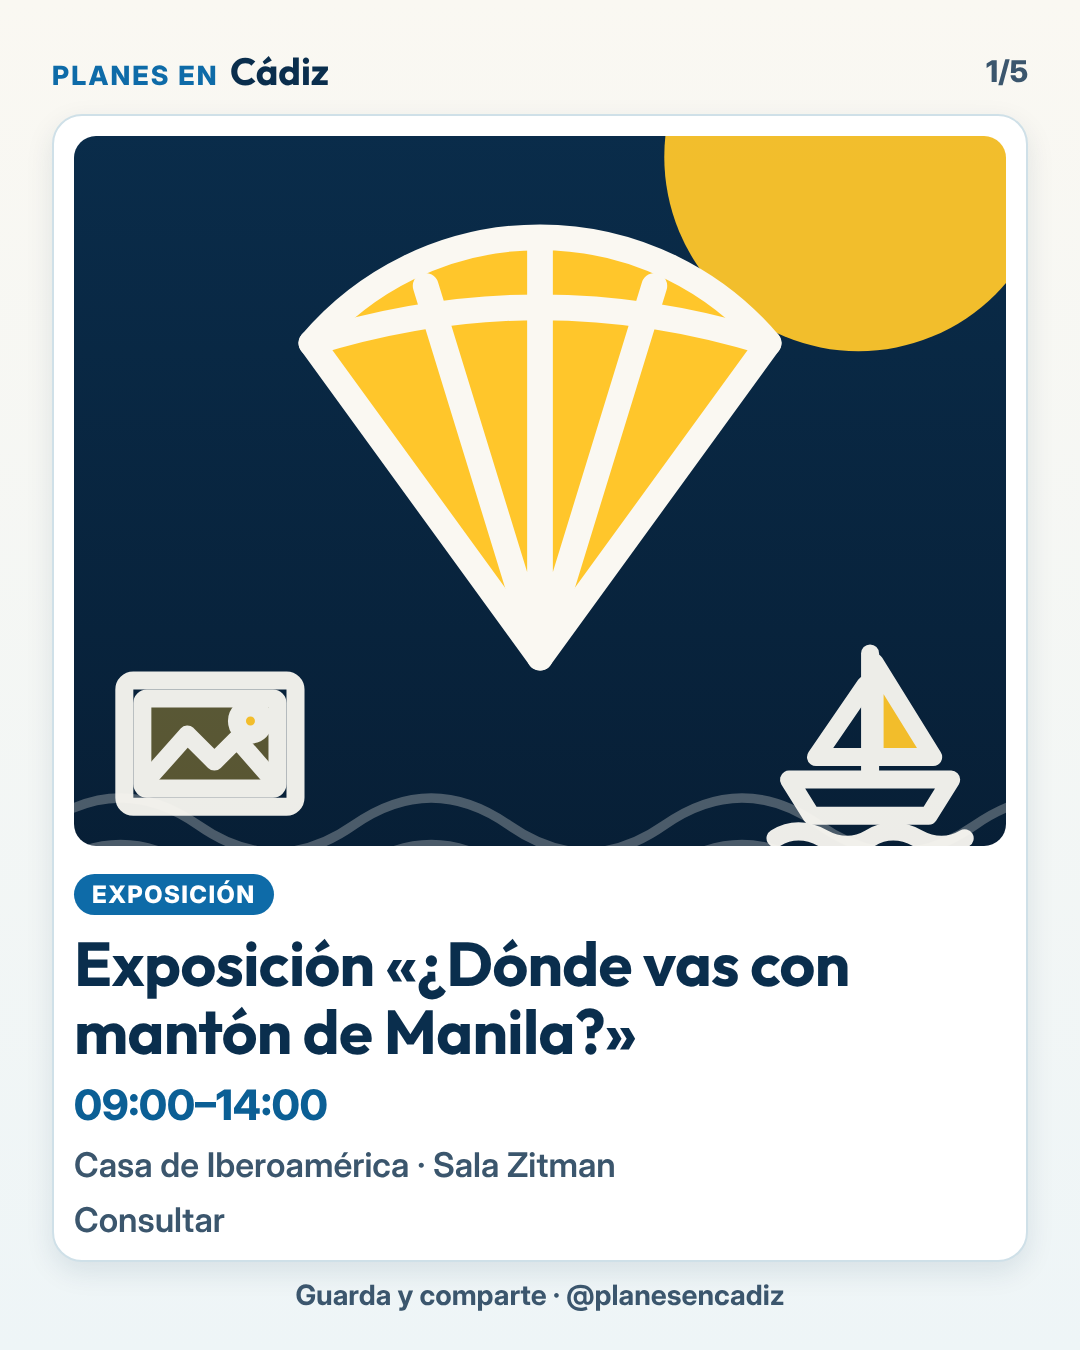
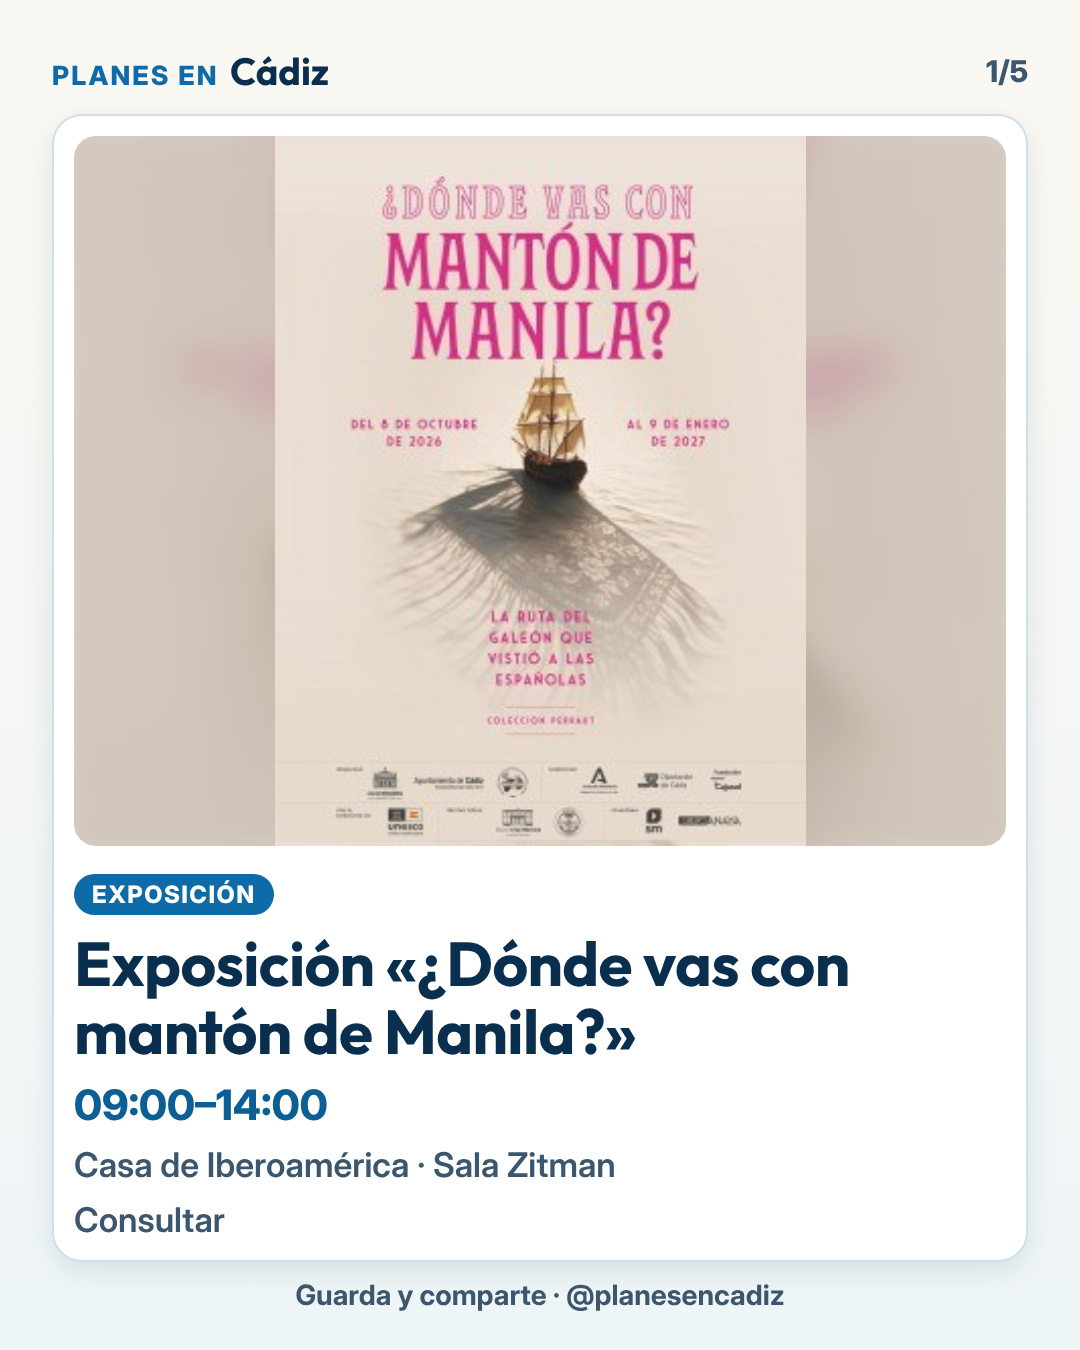
Imágenes oficiales: no descartar carteles con «instagram» en el nombre, admitir CDN de Wix, mínimo 240 px, rechazar logotipos y portadas, y búsqueda automática de imagen oficial en render antes de ilustrar
Claude-Session: https://claude.ai/code/session_015K7xjVeU4nwxNYicvNL5Uy

diff --git a/imagenes.py b/imagenes.py
@@ -17,7 +17,7 @@ from PIL import Image
 
 import agenda as ag
 
-MIN_ANCHO = 400
+MIN_ANCHO = 240  # carteles oficiales pequeños (p. ej. 262x350 de la Casa de Iberoamérica) valen: se muestran enteros (contain) sobre fondo desenfocado
 MAX_LADO = 1600
 UA = {"User-Agent": "Mozilla/5.0 (Windows NT 10.0; Win64; x64) AppleWebKit/537.36 (KHTML, like Gecko) Chrome/124.0 Safari/537.36",
       "Accept-Language": "es-ES,es;q=0.9"}
@@ -25,7 +25,11 @@ UA = {"User-Agent": "Mozilla/5.0 (Windows NT 10.0; Win64; x64) AppleWebKit/537.3
 NO_OFICIAL = ("instagram.", "facebook.", "fbcdn.", "twitter.", "x.com", "tiktok.", "youtube.", "ytimg.", "eventbrite", "evbuc.", "ticketmaster",
               "entradium", "giglon", "diariodecadiz", "lavozdigital", "cadizdirecto", "diariobahiadecadiz", "vivacadiz", "andaluciainformacion",
               "hoycadiz", "guiadecadiz", "google.", "gstatic.", "wp.com", "gravatar")
-EXCLUIR = re.compile(r"logo|icon|favicon|sprite|avatar|cookies|mapacontenidos|placeholder|share|/themes/|/modules/|facebook|twitter|instagram|iso-face|/img/front/|/assets/|cab-pagina-informativa|header_page", re.I)
+# Se aplica solo al nombre/ruta del archivo (los dominios de redes sociales ya se rechazan en NO_OFICIAL). Ojo: «instagram» NO se excluye en la ruta:
+# muchos carteles oficiales se llaman «…-post-instagram-vertical.jpg» (Casa de Iberoamérica).
+EXCLUIR = re.compile(r"logo|icon|favicon|sprite|avatar|cookies|mapacontenidos|placeholder|share|/themes/|/modules/|iso-face|/img/front/|/assets/|cab-pagina-informativa|header_page", re.I)
+# CDN de los constructores de webs: sirven las imágenes de la web del propio organizador (p. ej. Wix → static.wixstatic.com)
+CDN_PROPIOS = ("wixstatic.com", "squarespace-cdn.com", "squarespace.com", "cdn.shopify.com")
 
 
 def original_drupal(url):
@@ -39,6 +43,8 @@ def es_oficial(url_imagen, url_pagina):
         return False
     h_p = urlparse(url_pagina).netloc.lower()
     raiz = lambda h: ".".join(h.split(".")[-2:])
+    if any(host.endswith(c) for c in CDN_PROPIOS) and not any(x in h_p for x in NO_OFICIAL):
+        return True  # la página es del organizador y la imagen sale del CDN de su constructor de webs
     return raiz(host) == raiz(h_p)  # misma web que la página oficial del evento
 
 
@@ -64,6 +70,19 @@ def candidatas(html, url_pagina):
     return res
 
 
+def parece_logo(im):
+    """Heurística: un logotipo tiene gran parte transparente o casi blanca y pocos colores; un cartel o una foto no."""
+    try:
+        peq = im.convert("RGBA").resize((96, 96))
+        px = list(peq.getdata())
+        transp = sum(1 for p in px if p[3] < 40) / len(px)
+        blanco = sum(1 for p in px if p[3] >= 40 and min(p[:3]) > 235) / len(px)
+        colores = len({(p[0] // 32, p[1] // 32, p[2] // 32) for p in px if p[3] >= 40})
+        return transp > 0.35 or (blanco + transp > 0.55 and colores < 25)
+    except Exception:
+        return False
+
+
 def descargar(url, destino, referer=None):
     """Descarga y valida (imagen real, ancho >= MIN_ANCHO). Guarda JPEG. Devuelve dict o None."""
     try:
@@ -76,6 +95,8 @@ def descargar(url, destino, referer=None):
         return None
     if im.width < MIN_ANCHO:
         return {"descartada": f"ancho {im.width}px < {MIN_ANCHO}px", "url": url}
+    if parece_logo(im):
+        return {"descartada": "parece un logotipo (fondo transparente/blanco liso), no un cartel del evento", "url": url}
     if im.height and im.width / im.height > 3.5:
         return {"descartada": f"banner genérico (proporción {im.width}x{im.height})", "url": url}
     if im.mode in ("RGBA", "LA", "P"):
@@ -91,6 +112,8 @@ def descargar(url, destino, referer=None):
 
 def buscar_y_descargar(url_pagina, id_, carpeta, html=None):
     """Prueba las imágenes candidatas de la página en orden hasta que una sea válida. Devuelve el bloque `imagen` de eventos.json o None."""
+    if urlparse(url_pagina).path in ("", "/"):
+        return {"error": "la fuente es la página de inicio, no la ficha del evento: sus imágenes no son del evento"}
     try:
         html = html or requests.get(url_pagina, headers=UA, timeout=30).text
     except requests.RequestException:

diff --git a/render.py b/render.py
@@ -60,6 +60,24 @@ def resolver_imagenes(eventos, carpeta):
         img = ev.setdefault("imagen", {})
         cand = [Path(carpeta) / img.get("archivo", "_"), ag.RAIZ / img.get("archivo", "_")]
         ruta = next((c for c in cand if img.get("archivo") and c.is_file()), None)
+        if img.get("generada") and not ev.get("sin_imagen_oficial"):
+            ruta = None  # una ilustración guardada de un render anterior se vuelve a cambiar por la imagen oficial si ya existe
+        if ruta is None and not ev.get("sin_imagen_oficial"):
+            # Antes de ilustrar, SE INTENTA SIEMPRE la imagen oficial en las fichas de las fuentes del evento (regla 7), sin depender del agente
+            try:
+                import imagenes
+                for f in ev.get("fuentes") or []:
+                    url = f.get("url") or ""
+                    if not url.startswith("http"):
+                        continue
+                    r_ = imagenes.buscar_y_descargar(url, ev.get("id") or "evento", Path(carpeta))
+                    if r_ and "archivo" in r_:
+                        r_["alt_text"] = img.get("alt_text") or f"Cartel o imagen oficial de {ev.get('nombre', 'evento')}"
+                        img.clear(); img.update(r_)
+                        ruta = Path(carpeta) / r_["archivo"]
+                        break
+            except Exception as e_:
+                print(f"AVISO imagen oficial de {ev.get('id')}: {e_}")
         if ruta is None:
             # Sin imagen oficial: ilustración PROPIA relacionada con el evento (ilustrar.py). La genérica de categoría es el último recurso.
             try:

diff --git a/CLAUDE.md b/CLAUDE.md
@@ -43,8 +43,8 @@ El agente debe dejar la base de fuentes **más rica cada día que pasa**. En la 
 5. Justo antes de publicar, vuelve a revisar las fuentes (cancelaciones, "suspendido", cambios de hora). Luego `python publicar.py --fecha F --tipo T --marcar-revision`; sin eso `publicar.py` se niega a publicar.
 6. No copies textos literales de las webs: redacta con palabras propias (descripciones de 2-3 frases).
 7. Imágenes: todo evento lleva imagen en todos los formatos.
-   - **Busca siempre la imagen oficial** de cada evento: `recopilar.py` ya la descarga de las fichas del Ayuntamiento/Turismo; para el resto ejecuta `python imagenes.py --url URL_DE_LA_FICHA --id ID --fecha F` (solo acepta imágenes del mismo dominio oficial, descarta logos/iconos y valida ≥ 400 px de ancho). Si hay imagen oficial en la web del organizador, del recinto o del Ayuntamiento/Turismo, úsala (también valen las **imágenes del propio evento de la Agenda Cultural de Andalucía (Junta)**: su cartel o foto, citando «Junta de Andalucía»; nunca el banner genérico de cabecera, que `imagenes.py` descarta) (nunca de agregadores, prensa ni redes sociales). Guarda `imagen: {archivo, url_origen, fuente, alt_text}` (alt_text descriptivo) y añade al caption `Imágenes: [fuente]`. Los carteles verticales o pequeños se muestran enteros sobre fondo desenfocado (`ajuste: contain`, automático).
-   - **Sin imagen oficial** (o sin buena calidad, < 400 px) → **ilustración propia relacionada con el evento**: `render.py` la genera con `ilustrar.py` (motivos vectoriales elegidos por las palabras del nombre, la descripción y la categoría: guitarra para flamenco, barco para el mar, calabaza para Halloween…, en la paleta de marca; ver `ejemplos/ilustraciones/catalogo-motivos.png`). Revisa el resultado y, si el motivo no refleja bien el evento, afínalo en eventos.json: `"ilustracion": {"motivos": ["barco", "marco"], "fondo": "mar|bruma|noche|sol|cal"}`; si falta un motivo, añádelo a `ilustrar.py`. Queda marcada `generada: true`; en el caption añade «Ilustraciones: Planes en Cádiz». La imagen genérica de categoría (`plantilla/sin-foto/`) es solo el último recurso si falla la ilustración. Nunca inventes un cartel ni imites uno oficial.
+   - **Busca siempre la imagen oficial** de cada evento: `recopilar.py` ya la descarga de las fichas del Ayuntamiento/Turismo; para el resto ejecuta `python imagenes.py --url URL_DE_LA_FICHA --id ID --fecha F` (solo acepta imágenes del mismo dominio oficial, descarta logos/iconos y valida ≥ 240 px de ancho, descarta logotipos y páginas de inicio). Si hay imagen oficial en la web del organizador, del recinto o del Ayuntamiento/Turismo, úsala (también valen las **imágenes del propio evento de la Agenda Cultural de Andalucía (Junta)**: su cartel o foto, citando «Junta de Andalucía»; nunca el banner genérico de cabecera, que `imagenes.py` descarta) (nunca de agregadores, prensa ni redes sociales). Guarda `imagen: {archivo, url_origen, fuente, alt_text}` (alt_text descriptivo) y añade al caption `Imágenes: [fuente]`. Los carteles verticales o pequeños se muestran enteros sobre fondo desenfocado (`ajuste: contain`, automático).
+   - **Sin imagen oficial** (o sin calidad suficiente, < 240 px; `render.py` intenta SIEMPRE la imagen oficial de las fichas de `fuentes` antes de ilustrar) → **ilustración propia relacionada con el evento**: `render.py` la genera con `ilustrar.py` (motivos vectoriales elegidos por las palabras del nombre, la descripción y la categoría: guitarra para flamenco, barco para el mar, calabaza para Halloween…, en la paleta de marca; ver `ejemplos/ilustraciones/catalogo-motivos.png`). Revisa el resultado y, si el motivo no refleja bien el evento, afínalo en eventos.json: `"ilustracion": {"motivos": ["barco", "marco"], "fondo": "mar|bruma|noche|sol|cal"}`; si falta un motivo, añádelo a `ilustrar.py`. Queda marcada `generada: true`; en el caption añade «Ilustraciones: Planes en Cádiz». La imagen genérica de categoría (`plantilla/sin-foto/`) es solo el último recurso si falla la ilustración. Nunca inventes un cartel ni imites uno oficial.
    - Si un organizador pide retirar una imagen: se sustituye por la genérica y se añade a la lista de exclusión de `fuentes.md`. Antes de usar una imagen, comprueba esa lista.
 8. Sigue siempre `marca.md` (identidad definitiva «Planes en Cádiz», dirección Mediterráneo luminoso; `marca.json`) y las plantillas; no reinterpretes el diseño.
 9. **Se publica TODOS los días, sin excepción** (carrusel + stories a las 9:00, story de las 18:30; el reel los jueves). Basta 1 evento verificado. Si hay pocos eventos temporales, el agente busca más (descubrimiento, más fuentes, prensa, organizadores) y completa con «Siempre abierto» (permanentes con horario de ese día confirmado, ver abajo) hasta tener al menos 3 planes. Si aun así solo queda 1 o 0, se publica igual con lo verificado: nunca se inventa nada y nunca se baja la regla 1. Si no hay ningún plan nocturno, la story de las 18:30 sale como «Mañana en Cádiz» (clave `noche_manana` en eventos.json con los eventos verificados de mañana). Solo se omite una publicación si hay 0 eventos verificados incluso con relleno; `publicar.py` avisa por email para resolverlo ese mismo día.
